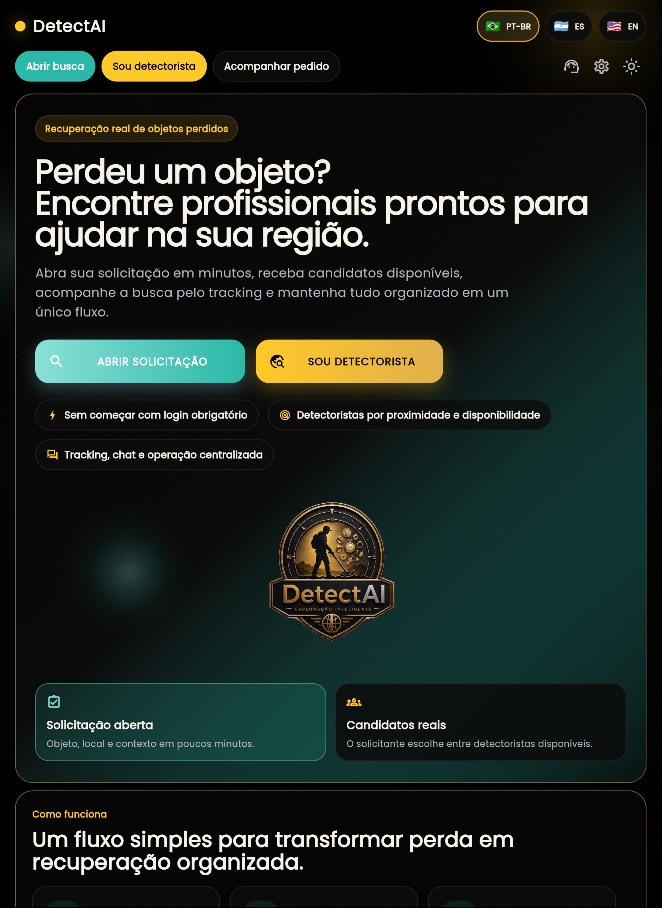
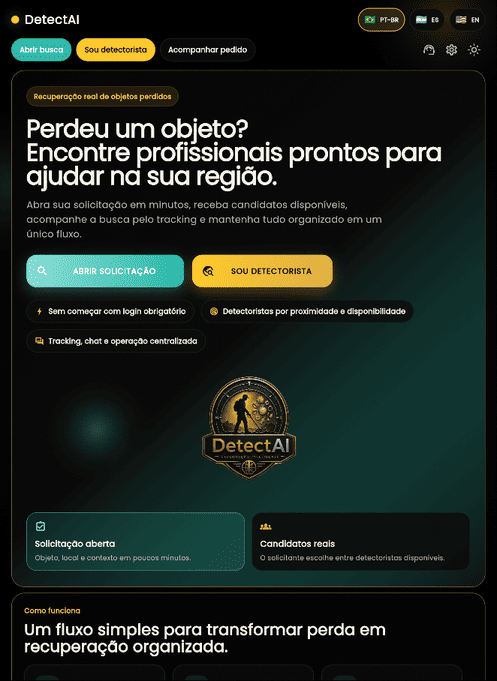
fix(home): lazy-load versioned project previews

diff --git a/pages/index.html b/pages/index.html
@@ -6,7 +6,7 @@
     ${ og }
     <title>Tábua de Maré API — dados brasileiros</title>
     <link rel="icon" type="image/png" href="/pages/assets/favicon-192x192.png" />
-    <link rel="stylesheet" href="/pages/assets/css/home.css" />
+    <link rel="stylesheet" href="/pages/assets/css/home.css?v=20260826-1" />
     <style>[v-cloak] { visibility: hidden; }</style>
     <link href="https://fonts.googleapis.com/css2?family=IBM+Plex+Sans:wght@400;500;600;700&amp;family=Kode+Mono:wght@400;600&amp;family=Spectral:wght@600;700&amp;display=swap" rel="stylesheet" />
     <script src="https://unpkg.com/petite-vue@0.4.1/dist/petite-vue.iife.js"></script>
@@ -149,46 +149,46 @@
           <div class="users-grid">
             <article class="user-card user-card--with-preview">
               <div class="user-card__project">
-                <div class="user-card__logo user-card__logo--drone"><img src="https://droneskull.com.br/img/logo.png" alt="Logo Drone Skull"></div>
+                <div class="user-card__logo user-card__logo--drone"><img src="https://droneskull.com.br/img/logo.png" alt="Logo Drone Skull" loading="lazy" decoding="async"></div>
                 <div class="user-card__copy"><strong>Drone Skull</strong><span>Produção aérea cinematográfica</span><small>Dados para planejar cada voo com mais contexto.</small></div>
               </div>
               <div class="user-card__actions">
                 <a class="user-card__site" href="https://droneskull.com.br/" target="_blank" rel="noreferrer noopener" aria-label="Abrir o site Drone Skull"><span aria-hidden="true">↗</span></a>
                 <button class="user-card__preview" type="button" aria-label="Ver prévia do Drone Skull">
                   <svg viewBox="0 0 24 24" aria-hidden="true"><path d="M2.5 12s3.4-6 9.5-6 9.5 6 9.5 6-3.4 6-9.5 6-9.5-6-9.5-6Z"/><circle cx="12" cy="12" r="2.6"/></svg>
-                  <span class="user-card__preview-tooltip" role="tooltip"><span class="user-card__preview-viewport"><img src="/pages/assets/images/site-previews/drone-skull.png" alt="Prévia completa do site Drone Skull"></span><span class="user-card__preview-caption">Drone Skull</span></span>
+                  <span class="user-card__preview-tooltip" role="tooltip"><span class="user-card__preview-viewport"><img src="/pages/assets/images/site-previews/drone-skull.png?v=20260826-1" alt="Prévia completa do site Drone Skull" loading="lazy" decoding="async" fetchpriority="low"></span><span class="user-card__preview-caption">Drone Skull</span></span>
                 </button>
               </div>
             </article>
             <article class="user-card user-card--with-preview">
               <div class="user-card__project">
-                <div class="user-card__logo user-card__logo--swell-full"><img src="https://swellcheckapp.vercel.app/Favicon.svg" alt="Logo Swell Check"></div>
+                <div class="user-card__logo user-card__logo--swell-full"><img src="https://swellcheckapp.vercel.app/Favicon.svg" alt="Logo Swell Check" loading="lazy" decoding="async"></div>
                 <div class="user-card__copy"><strong>Swell Check</strong><span>Condições para quem vai surfar</span><small>Previsões organizadas para decidir quando entrar no mar.</small></div>
               </div>
               <div class="user-card__actions">
                 <a class="user-card__site" href="https://swellcheckapp.vercel.app/" target="_blank" rel="noreferrer noopener" aria-label="Abrir o site Swell Check"><span aria-hidden="true">↗</span></a>
                 <button class="user-card__preview" type="button" aria-label="Ver prévia do Swell Check">
                   <svg viewBox="0 0 24 24" aria-hidden="true"><path d="M2.5 12s3.4-6 9.5-6 9.5 6 9.5 6-3.4 6-9.5 6-9.5-6-9.5-6Z"/><circle cx="12" cy="12" r="2.6"/></svg>
-                  <span class="user-card__preview-tooltip" role="tooltip"><span class="user-card__preview-viewport"><img src="/pages/assets/images/site-previews/ondina.png" alt="Prévia completa do Ondina"></span><span class="user-card__preview-caption">Swell Check</span></span>
+                  <span class="user-card__preview-tooltip" role="tooltip"><span class="user-card__preview-viewport"><img src="/pages/assets/images/site-previews/ondina.png?v=20260826-1" alt="Prévia completa do Ondina" loading="lazy" decoding="async" fetchpriority="low"></span><span class="user-card__preview-caption">Swell Check</span></span>
                 </button>
               </div>
             </article>
             <article class="user-card user-card--with-preview">
               <div class="user-card__project">
-                <div class="user-card__logo user-card__logo--detectai"><img src="https://detectai.com.br/assets/assets/images/detectai_logo_oficial.png" alt="Logo DetectAI"></div>
+                <div class="user-card__logo user-card__logo--detectai"><img src="https://detectai.com.br/favicon.png" alt="Logo DetectAI" loading="lazy" decoding="async"></div>
                 <div class="user-card__copy"><strong>DetectAI</strong><span>Detector de metais para objetos perdidos</span><small>Conecta você a detectoristas profissionais para recuperar o que foi perdido.</small></div>
               </div>
               <div class="user-card__actions">
                 <a class="user-card__site" href="https://detectai.com.br/" target="_blank" rel="noreferrer noopener" aria-label="Abrir o site DetectAI"><span aria-hidden="true">↗</span></a>
                 <button class="user-card__preview" type="button" aria-label="Ver prévia do DetectAI">
                   <svg viewBox="0 0 24 24" aria-hidden="true"><path d="M2.5 12s3.4-6 9.5-6 9.5 6 9.5 6-3.4 6-9.5 6-9.5-6-9.5-6Z"/><circle cx="12" cy="12" r="2.6"/></svg>
-                  <span class="user-card__preview-tooltip" role="tooltip"><span class="user-card__preview-viewport"><img src="/pages/assets/images/site-previews/detectai.png" alt="Prévia completa do site DetectAI"></span><span class="user-card__preview-caption">DetectAI</span></span>
+                  <span class="user-card__preview-tooltip" role="tooltip"><span class="user-card__preview-viewport"><img src="/pages/assets/images/site-previews/detectai.png?v=20260826-1" alt="Prévia completa do site DetectAI" loading="lazy" decoding="async" fetchpriority="low"></span><span class="user-card__preview-caption">DetectAI</span></span>
                 </button>
               </div>
             </article>
             <article class="user-card user-card--with-preview">
               <div class="user-card__project">
-                <div class="user-card__logo user-card__logo--swell"><img src="https://ibexgo.app/wp-content/uploads/2026/04/cropped-logo_ibex-192x192.png" alt="Logo ibexGo"></div>
+                <div class="user-card__logo user-card__logo--swell"><img src="https://ibexgo.app/wp-content/uploads/2026/04/cropped-logo_ibex-192x192.png" alt="Logo ibexGo" loading="lazy" decoding="async"></div>
                 <div class="user-card__copy"><strong>Pro Site Turismo</strong><span>Estrutura digital para agências de turismo</span><small>Reúne site, páginas de venda e ferramentas para organizar a divulgação e as vendas.</small></div>
               </div>
               <div class="user-card__actions">
@@ -196,7 +196,7 @@
                 <button class="user-card__preview" type="button" aria-label="Ver prévia do Pro Site Turismo">
                   <svg viewBox="0 0 24 24" aria-hidden="true"><path d="M2.5 12s3.4-6 9.5-6 9.5 6 9.5 6-3.4 6-9.5 6-9.5-6-9.5-6Z"/><circle cx="12" cy="12" r="2.6"/></svg>
                   <span class="user-card__preview-tooltip" role="tooltip">
-                    <span class="user-card__preview-viewport"><img src="/pages/assets/images/site-previews/ibexgo.png" alt="Prévia completa do Pro Site Turismo"></span>
+                    <span class="user-card__preview-viewport"><img src="/pages/assets/images/site-previews/ibexgo.png?v=20260826-1" alt="Prévia completa do Pro Site Turismo" loading="lazy" decoding="async" fetchpriority="low"></span>
                     <span class="user-card__preview-caption">Pro Site Turismo</span>
                   </span>
                 </button>
@@ -204,14 +204,14 @@
             </article>
             <article class="user-card user-card--with-preview">
               <div class="user-card__project">
-                <div class="user-card__logo user-card__logo--morro"><img src="https://morroexperience.com/wp-content/uploads/2026/07/cropped-sua-logo-1-192x192.png" alt="Logo Morro Experience"></div>
+                <div class="user-card__logo user-card__logo--morro"><img src="https://morroexperience.com/wp-content/uploads/2026/07/cropped-sua-logo-1-192x192.png" alt="Logo Morro Experience" loading="lazy" decoding="async"></div>
                 <div class="user-card__copy"><strong>Morro Experience</strong><span>Passeios e experiências em Morro de São Paulo</span><small>Integra a tábua de maré ao planejamento de atividades e da viagem.</small></div>
               </div>
               <div class="user-card__actions">
                 <a class="user-card__site" href="https://morroexperience.com/tabua-da-mare/" target="_blank" rel="noreferrer noopener" aria-label="Abrir o site Morro Experience"><span aria-hidden="true">↗</span></a>
                 <button class="user-card__preview" type="button" aria-label="Ver prévia do Morro Experience">
                   <svg viewBox="0 0 24 24" aria-hidden="true"><path d="M2.5 12s3.4-6 9.5-6 9.5 6 9.5 6-3.4 6-9.5 6-9.5-6-9.5-6Z"/><circle cx="12" cy="12" r="2.6"/></svg>
-                  <span class="user-card__preview-tooltip" role="tooltip"><span class="user-card__preview-viewport"><img src="/pages/assets/images/site-previews/morro-experience.png" alt="Prévia completa do site Morro Experience"></span><span class="user-card__preview-caption">Morro Experience</span></span>
+                  <span class="user-card__preview-tooltip" role="tooltip"><span class="user-card__preview-viewport"><img src="/pages/assets/images/site-previews/morro-experience.png?v=20260826-1" alt="Prévia completa do site Morro Experience" loading="lazy" decoding="async" fetchpriority="low"></span><span class="user-card__preview-caption">Morro Experience</span></span>
                 </button>
               </div>
             </article>
